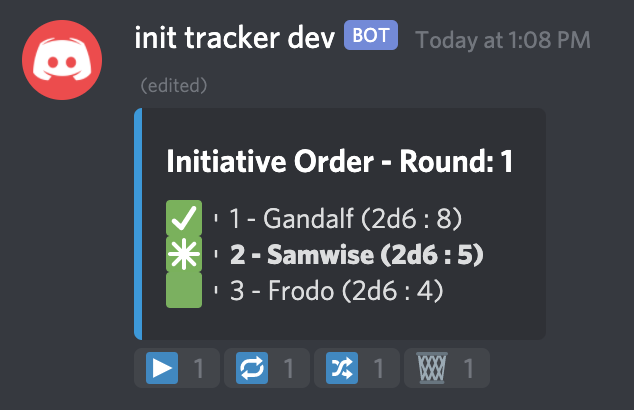
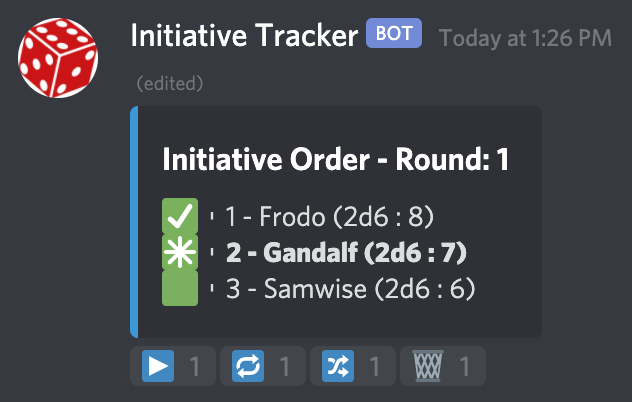
Updated screenshot and documentation

diff --git a/README.md b/README.md
@@ -4,7 +4,7 @@ Discord bot for tracking initiative for RPG games
 This is a work in progress however, it is ready for general use. [Invite Link](https://discord.com/api/oauth2/authorize?client_id=805509626107396166&permissions=18432&scope=bot)
 
 <img src="https://github.com/curtp/initiative_tracker/blob/main/docs/init_tracker_screenshot.png?raw=true" width='50%'>
-The reactions under the display act as shortcuts for simple interaction. See descriptions of actions below. In the screenshot above, Gandalf is finished, Frodo is up, and Samwise hasn't gone yet.
+The reactions under the display act as shortcuts for simple interaction. See descriptions of actions below. In the screenshot above, Frodo is finished, Gandalf is up, and Samwise hasn't gone yet.
 
 ### Required Permissions
 **Send Messages** - Allows the bot to send messages to the channel.  
